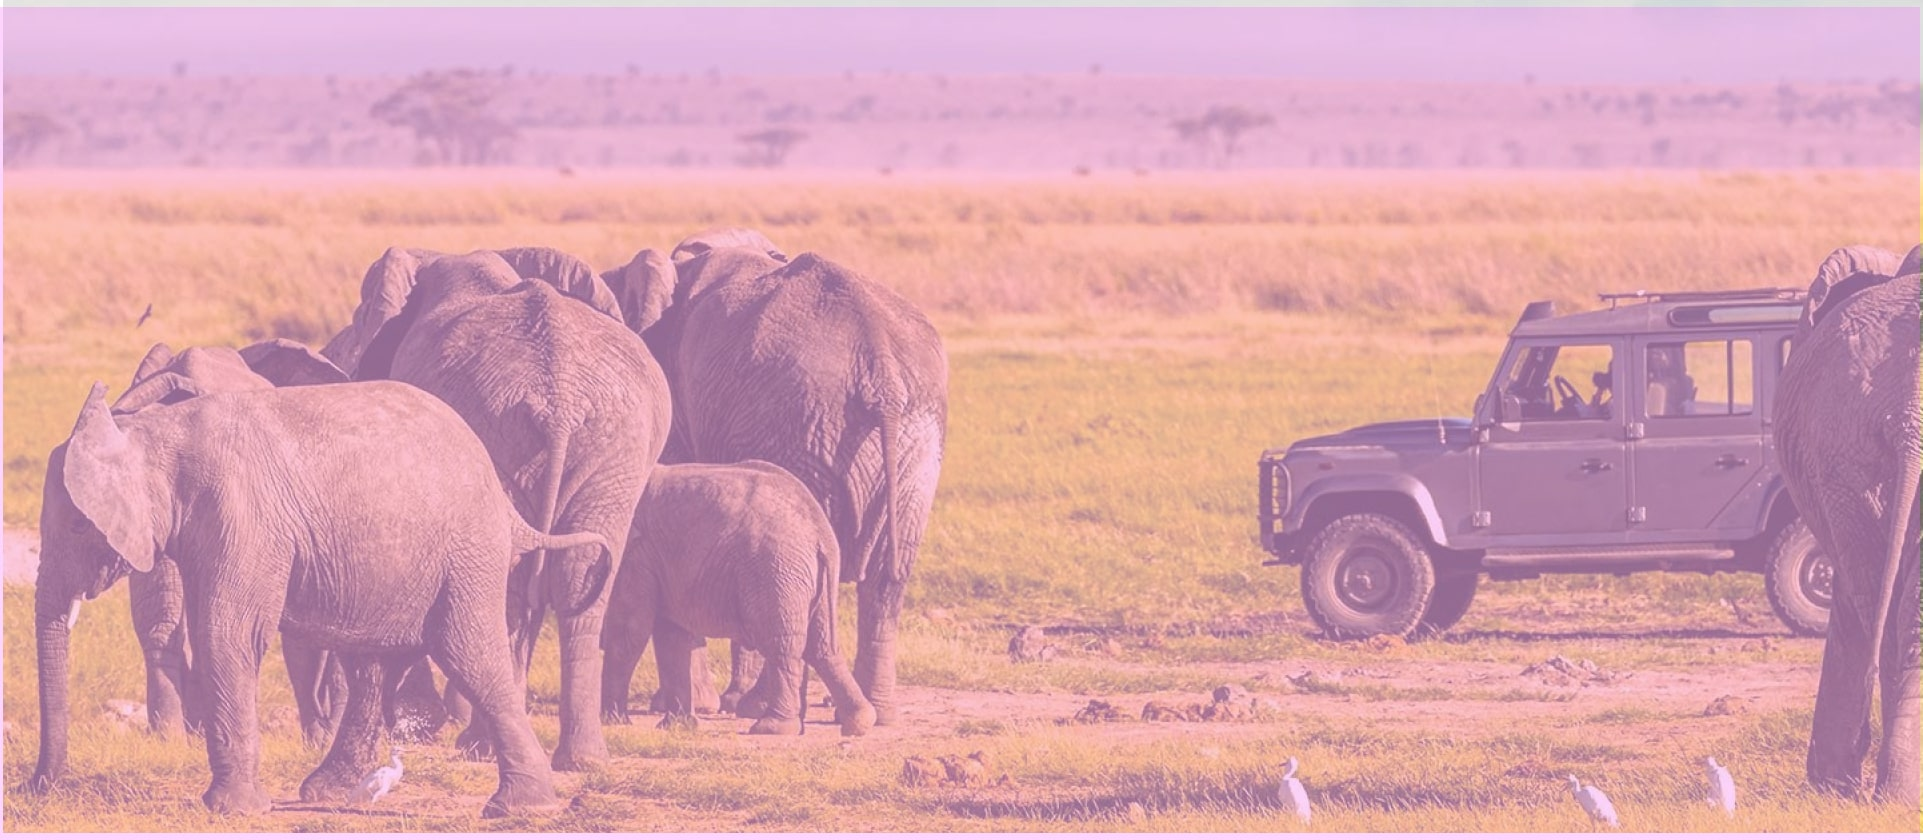
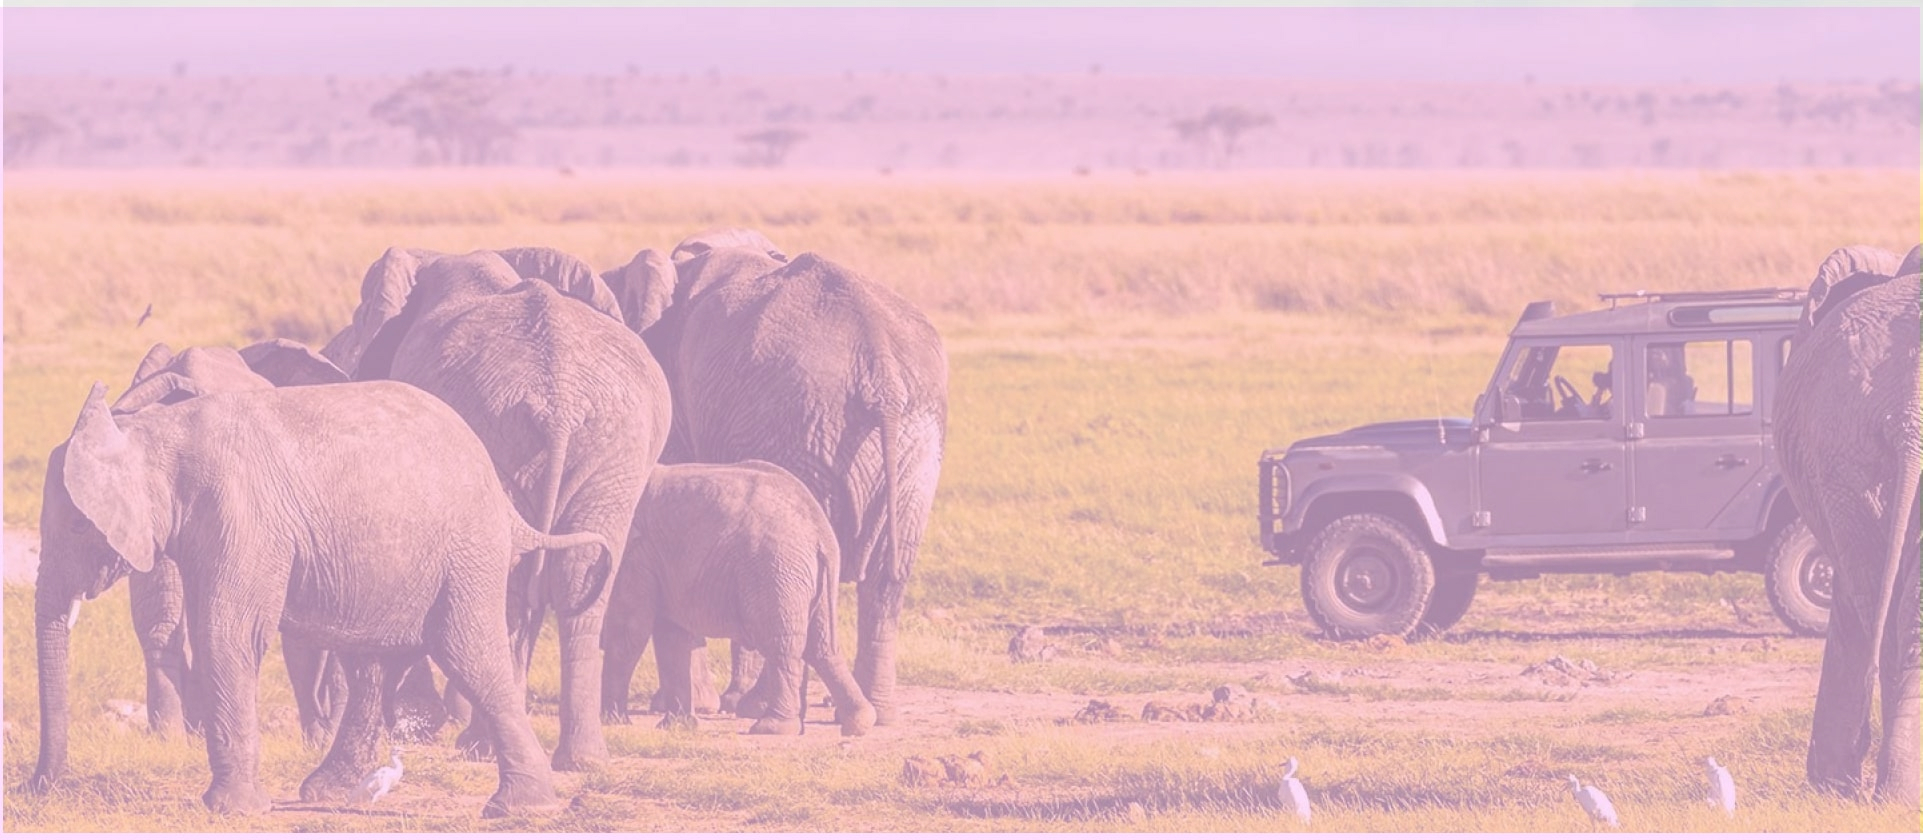
Style: change color

diff --git a/styles/main_styles.css b/styles/main_styles.css
@@ -274,7 +274,7 @@ section
 	-ms-transition: all 200ms ease;
 	-o-transition: all 200ms ease;
 	transition: all 200ms ease;
-	background-color: #800080;
+	background-color: #8D4A75;
 	opacity: 0.8;
 }
 .header_content
@@ -289,7 +289,7 @@ section
 }
 .header.scrolled
 {
-	background: #763076;
+	background: #8D4A75;
 	opacity: 1;
 	height: 70px;
 }
@@ -435,7 +435,7 @@ section
 	left: -100vw;
 	width: 80vw;
 	height: 100vh;
-	background: #763076;
+	background: #8D4A75;
 	-webkit-transition: all 1000ms cubic-bezier(.18,.43,.59,.92);
 	-moz-transition: all 1000ms cubic-bezier(.18,.43,.59,.92);
 	-ms-transition: all 1000ms cubic-bezier(.18,.43,.59,.92);
@@ -827,7 +827,7 @@ section
 {
 	font-family: 'Oswald', sans-serif;
 	font-size: 24px;
-	color: #800080;
+	color: #8D4A75;
 	font-weight: 700;
 }
 
@@ -850,14 +850,14 @@ img{
 	font-family: 'Oswald', sans-serif;
 	font-size: 12px;
 	font-weight: 400;
-	color: #800080;
+	color: #8D4A75;
 	line-height: 0.75;
 	text-transform: uppercase;
 	letter-spacing: 0.2em;
 }
 .section_title
 {
-	color: #800080;
+	color: #8D4A75;
 	margin-top: 26px;
 }
 .destinations_row
@@ -874,7 +874,7 @@ img{
 	max-width: 100%;
 	border-radius: 10%;
 	box-shadow: #313f4e;
-	border: 5px solid #800080;
+	border: 5px solid #8D4A75;
 }
 .spec_offer
 {
@@ -921,7 +921,7 @@ img{
 	font-family: 'Oswald', sans-serif;
 	font-size: 30px;
 	font-weight: 400;
-	color: #800080;;
+	color: #8D4A75;;
 }
 .destination_subtitle
 {
@@ -1078,7 +1078,7 @@ img{
 	font-family: 'Oswald', sans-serif;
 	font-size: 48px;
 	font-weight: 400;
-	color: #800080;
+	color: #8D4A75;
 	line-height: 0.75;
 }
 .news_post_date div:last-child
@@ -1086,7 +1086,7 @@ img{
 	font-family: 'Oswald', sans-serif;
 	font-size: 11px;
 	font-weight: 400;
-	color: #800080;
+	color: #8D4A75;
 	text-transform: uppercase;
 	line-height: 0.75;
 	letter-spacing: 0.2em;
@@ -1106,7 +1106,7 @@ img{
 	font-family: 'Oswald', sans-serif;
 	font-size: 28px;
 	font-weight: 400;
-	color: #800080;
+	color: #8D4A75;
 }
 .news_post_category
 {
@@ -1219,7 +1219,7 @@ img{
 	display: block;
 	position: relative;
 	padding-top: 136px;
-	background-color: #763076;
+	background-color: #8D4A75;
 }
 .newsletter_title
 {

diff --git a/styles/about.css b/styles/about.css
@@ -290,7 +290,7 @@ section
 }
 .button:hover
 {
-	background: #800080;
+	background: #8D4A75;
 }
 
 /*********************************
@@ -309,7 +309,7 @@ section
 	-ms-transition: all 200ms ease;
 	-o-transition: all 200ms ease;
 	transition: all 200ms ease;
-	background-color: #800080;
+	background-color: #8D4A75;
 	opacity: 0.8;
 }
 .header_content
@@ -324,7 +324,7 @@ section
 }
 .header.scrolled
 {
-	background: #763076;
+	background: #8D4A75;
 	opacity: 1;
 }
 .header.scrolled .header_content
@@ -470,7 +470,7 @@ section
 	left: -100vw;
 	width: 80vw;
 	height: 100vh;
-	background: #763076;
+	background: #8D4A75;
 	-webkit-transition: all 1000ms cubic-bezier(.18,.43,.59,.92);
 	-moz-transition: all 1000ms cubic-bezier(.18,.43,.59,.92);
 	-ms-transition: all 1000ms cubic-bezier(.18,.43,.59,.92);
@@ -627,7 +627,7 @@ section
 	font-size: 100px;
 	line-height: 1.1;
 	font-weight: 400;
-	color: #800080;
+	color: #8D4A75;
 }
 
 /*********************************
@@ -785,7 +785,7 @@ section
 	line-height: 1.66;
 }
 .section_subtitle, .section_title{
-	color: #800080;
+	color: #8D4A75;
 }
 .about_text
 {
@@ -834,7 +834,7 @@ section
 	font-family: 'Oswald', sans-serif;
 	font-size: 60px;
 	font-weight: 500;
-	color: #800080;
+	color: #8D4A75;
 	line-height: 0.75;
 	margin-top: 35px;
 }
@@ -892,7 +892,7 @@ section
 	font-family: 'Oswald', sans-serif;
 	font-size: 30px;
 	font-weight: 500;
-	color: #800080;
+	color: #8D4A75;
 	line-height: 1.1;
 }
 .why_text
@@ -913,7 +913,7 @@ section
 	height: 73px;
 	background: #f2f5f6;
 	border-radius: 50%;
-	border: 3px solid #800080;
+	border: 3px solid #8D4A75;
 }
 .why_icon img
 {
@@ -990,7 +990,7 @@ section
 	display: block;
 	position: relative;
 	padding-top: 100px;
-	background-color: #763076;
+	background-color: #8D4A75;
 }
 .newsletter_title
 {

diff --git a/styles/destinations.css b/styles/destinations.css
@@ -287,7 +287,7 @@ section
 }
 .button:hover
 {
-	background: #800080;
+	background: #8D4A75;
 }
 
 /*********************************
@@ -306,7 +306,7 @@ section
 	-ms-transition: all 200ms ease;
 	-o-transition: all 200ms ease;
 	transition: all 200ms ease;
-	background-color: #800080;
+	background-color: #8D4A75;
 	opacity: 0.8;
 	
 }
@@ -324,7 +324,7 @@ section
 }
 .header.scrolled
 {
-	background: #763076;
+	background: #8D4A75;
 	opacity: 1;
 }
 .header.scrolled .header_content
@@ -473,7 +473,7 @@ section
 	left: -100vw;
 	width: 80vw;
 	height: 100vh;
-	background: #763076;
+	background: #8D4A75;
 	-webkit-transition: all 1000ms cubic-bezier(.18,.43,.59,.92);
 	-moz-transition: all 1000ms cubic-bezier(.18,.43,.59,.92);
 	-ms-transition: all 1000ms cubic-bezier(.18,.43,.59,.92);
@@ -776,14 +776,14 @@ section
 	font-family: 'Oswald', sans-serif;
 	font-size: 12px;
 	font-weight: 400;
-	color: #800080;
+	color: #8D4A75;
 	line-height: 0.75;
 	text-transform: uppercase;
 	letter-spacing: 0.2em;
 }
 .section_title
 {
-	color: #800080;
+	color: #8D4A75;
 	margin-top: 26px;
 }
 .destination_sorting_row
@@ -967,7 +967,7 @@ section
 	font-family: 'Oswald', sans-serif;
 	font-size: 30px;
 	font-weight: 400;
-	color: #800080;
+	color: #8D4A75;
 }
 .destination_subtitle
 {
@@ -1033,7 +1033,7 @@ section
 	display: block;
 	position: relative;
 	padding-top: 100px;
-	background-color: #763076;
+	background-color: #8D4A75;
 }
 .newsletter_title
 {

diff --git a/styles/contact.css b/styles/contact.css
@@ -287,7 +287,7 @@ section
 }
 .button:hover
 {
-	background: #800080;
+	background: #8D4A75;
 }
 /*********************************
 3. Header
@@ -305,7 +305,7 @@ section
 	-ms-transition: all 200ms ease;
 	-o-transition: all 200ms ease;
 	transition: all 200ms ease;
-	background-color: #800080;
+	background-color: #8D4A75;
 	opacity: 0.8;
 }
 .header_content
@@ -320,7 +320,7 @@ section
 }
 .header.scrolled
 {
-	background: #763076;
+	background: #8D4A75;
 	opacity: 1;
 }
 .header.scrolled .header_content
@@ -465,7 +465,7 @@ section
 	left: -100vw;
 	width: 80vw;
 	height: 100vh;
-	background: #763076;
+	background: #8D4A75;
 	-webkit-transition: all 1000ms cubic-bezier(.18,.43,.59,.92);
 	-moz-transition: all 1000ms cubic-bezier(.18,.43,.59,.92);
 	-ms-transition: all 1000ms cubic-bezier(.18,.43,.59,.92);
@@ -621,7 +621,7 @@ section
 	font-size: 100px;
 	line-height: 1.1;
 	font-weight: 400;
-	color: #800080;
+	color: #8D4A75;
 }
 
 /*********************************
@@ -767,7 +767,7 @@ section
 {
 	font-family: 'Oswald', sans-serif;
 	font-size: 32px;
-	color: #800080;
+	color: #8D4A75;
 }
 .contact_text
 {
@@ -897,7 +897,7 @@ section
 	display: block;
 	position: relative;
 	padding-top: 100px;
-	background: #763076;
+	background: #8D4A75;
 }
 .newsletter_title
 {

diff --git a/contact.html b/contact.html
@@ -70,7 +70,7 @@
 		</div>
 		<div class="menu_content">
 			<ul>
-				<li><a href="inex.html">Home</a></li>
+				<li><a href="index.html">Home</a></li>
 				<li><a href="about.html">About us</a></li>
 				<!-- <li><a href="#">Services</a></li>
 				<li><a href="news.html">News</a></li> -->

diff --git a/destinations.html b/destinations.html
@@ -67,7 +67,7 @@
 		</div>
 		<div class="menu_content">
 			<ul>
-				<li><a href="inex.html">Home</a></li>
+				<li><a href="index.html">Home</a></li>
 				<li><a href="about.html">About us</a></li>
 				<li><a href="contact.html">Contact</a></li>
 			</ul>
